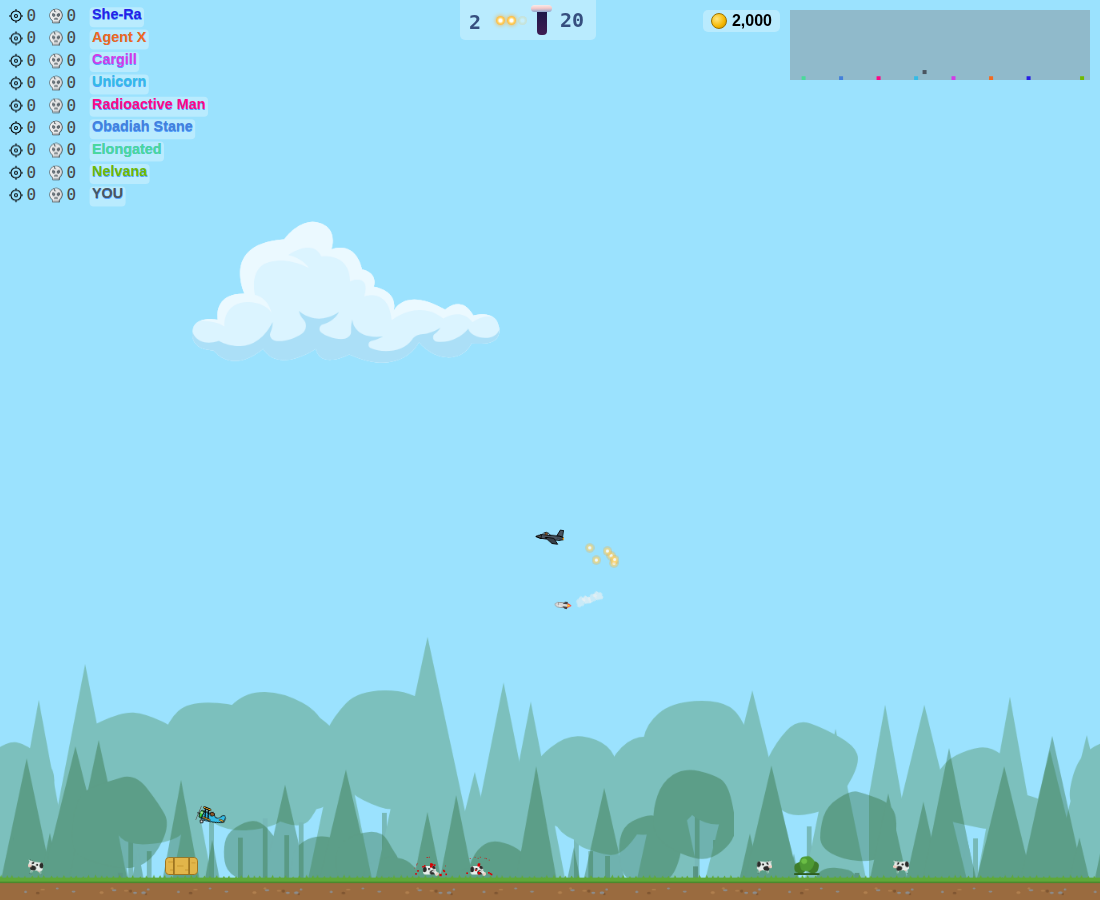
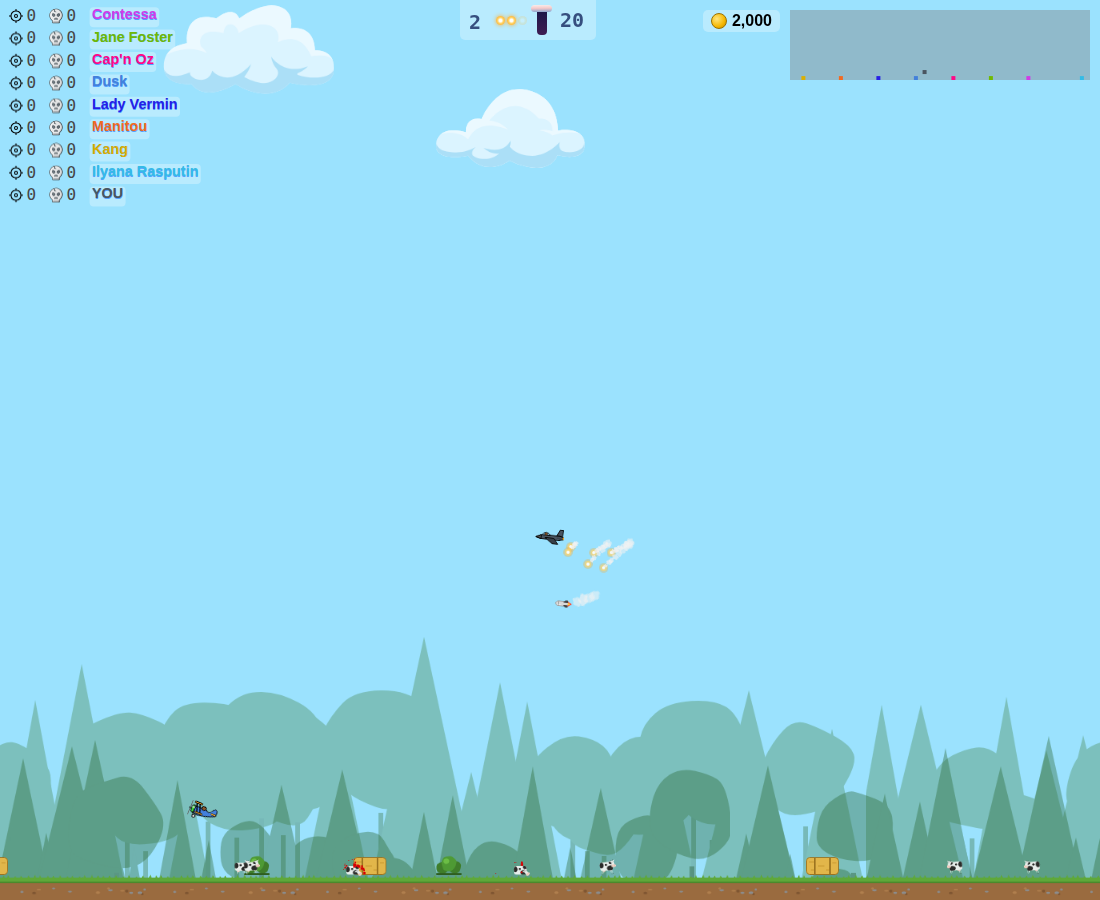
Keep the online host running when its window is covered; jet-style flares
- Online: browsers pause animation frames in covered or hidden windows,
  which froze the host's game and so every guest's screen. The engine's
  simulation step can now run without drawing, and while a room is open a
  Web Worker timer (not slowed down by the browser) keeps it ticking and
  keeps snapshots going.
- Flares: 8 flares released in quick pairs, fanning out below and behind
  the jet, arcing down with white smoke trails.
- Refresh the README game screenshot.

Claude-Session: https://claude.ai/code/session_01WwZ3htW9xsicAhMVb1Wtdf

diff --git a/js/engine/14-controls.js b/js/engine/14-controls.js
@@ -250,6 +250,22 @@ BitModules[14] = function (M, j, t) {
         }
     }
 
+    // White smoke trail behind a burning flare.
+    function X(M, t) {
+        const k = setInterval(() => {
+            if (!M.particles.has(t)) return clearInterval(k);
+            const s = new P.f(Q.b.puff);
+            (s.position = Object(N.c)(t.position)),
+                (s.velocity = Object(N.s)(0.1 * t.velocity.x, -1)),
+                (s.angle = 2 * Math.PI * Math.random()),
+                (s.scale = 0.45 + 0.25 * Math.random()),
+                (s.scaleRate = 0.7),
+                (s.opacity = 0.75),
+                (s.opacityRate = 0.3),
+                M.particles.add(s);
+        }, 30);
+    }
+
     // Flares: drop decoys that break the lock of missiles chasing this plane.
     function F(M, j) {
         if (!M.has(j) || !(j.maxFlares > 0) || !(j.flares > 0)) return;
@@ -260,17 +276,27 @@ BitModules[14] = function (M, j, t) {
                 t.source !== j &&
                 (t.target === j || (void 0 === t.target && Object(N.q)(t.position, j.position) < 700)) &&
                 ((t.target = void 0), (t.flared = !0), (t.elevator = 0));
-        for (let k = 0; k < 6; k++) {
-            const t = new P.c(Q.b.flare);
-            (t.duration = 1200 + 500 * Math.random()),
-                (t.position = Object(N.c)(j.position)),
-                (t.velocity = Object(N.s)(
-                    0.4 * j.velocity.x + 40 * (Math.random() - 0.5),
-                    0.4 * j.velocity.y + 10 + 20 * Math.random(),
-                )),
-                (t.size = 3),
-                M.particles.add(t);
-        }
+        // Release 8 flares in quick pairs. Like a real jet they are shot out
+        // below and behind the plane in a fan, then arc down trailing smoke.
+        for (let k = 0; k < 8; k++)
+            setTimeout(
+                () => {
+                    if (!M.has(j)) return;
+                    const t = new P.c(Q.b.flare),
+                        fan = (k % 2 ? 0.55 : 0) + (0.45 * Math.floor(k / 2)) / 3 + 0.1 * Math.random();
+                    (t.duration = 1800 + 700 * Math.random()),
+                        (t.position = Object(N.a)(j.position, Object(N.e)(j.forward, -10), Object(N.e)(j.normal, -4))),
+                        (t.velocity = Object(N.a)(
+                            Object(N.e)(j.velocity, 0.55),
+                            Object(N.e)(j.forward, -28 + 14 * fan),
+                            Object(N.e)(j.normal, -8 - 36 * fan),
+                        )),
+                        (t.size = 4),
+                        M.particles.add(t),
+                        X(M, t);
+                },
+                90 * Math.floor(k / 2),
+            );
         0 !== j.flares ||
             j.flareReloading ||
             ((j.flareReloading = !0),

diff --git a/js/engine/22-render.js b/js/engine/22-render.js
@@ -462,20 +462,29 @@ BitModules[22] = function (M, j, t) {
             I = 0,
             g = Object(D.g)(),
             y = 1 / 60;
+        // One simulation step (fixed 60 Hz physics, catching up on elapsed time).
+        function step() {
+            const A = Object(D.g)();
+            let n = (A - g) / 1e3;
+            for (n > 0.1 && (n = 0.1), g = A, I += n, t.remote || Object(L.c)(t, n); I >= y;)
+                (t.remote || O(t, y), (I -= y));
+            return (Object(N.g)(t, y), n);
+        }
+        // Lets the game keep running while the window is covered or hidden and
+        // animation frames stop (used by online hosts).
+        t.tick = function () {
+            Object(D.g)() - g > 50 && step();
+        };
         return (
             (function T() {
                 e = requestAnimationFrame(T);
-                const A = Object(D.g)();
-                let n = (A - g) / 1e3;
+                const n = step();
                 window.bitAdaptQuality && window.bitAdaptQuality(n);
-                for (n > 0.1 && (n = 0.1), g = A, I += n, t.remote || Object(L.c)(t, n); I >= y;)
-                    (t.remote || O(t, y), (I -= y));
-                Object(N.g)(t, y);
                 const c = t.remote ? t.remote.alpha() : I / y;
                 (i(M, c), a(j, M, t, c, u));
             })(),
             function () {
-                cancelAnimationFrame(e);
+                (cancelAnimationFrame(e), (t.tick = null));
             }
         );
     }

diff --git a/js/online/host.js b/js/online/host.js
@@ -68,7 +68,7 @@
         window.bitOnLog = html => broadcast({t: "log", h: html});
 
         updateHostBanner();
-        setInterval(sendSnapshots, SNAPSHOT_MS);
+        keepRunning(world);
         // Drop guests that went silent (closed tab, lost connection).
         setInterval(() => {
             const now = performance.now();
@@ -81,6 +81,28 @@
         }, 1000);
         window.addEventListener("beforeunload", () => host.peer && host.peer.destroy());
         host.pending.splice(0).forEach(spawnGuest);
+    }
+
+    // Browsers pause animation frames in covered or hidden windows, and slow
+    // down their timers. A Web Worker timer is not slowed down, so it keeps the
+    // host's game simulating and sending snapshots while the host looks away.
+    function keepRunning(world) {
+        let last = 0;
+        const beat = () => {
+            world.tick && world.tick();
+            const now = performance.now();
+            if (now - last >= SNAPSHOT_MS) {
+                last = now;
+                sendSnapshots();
+            }
+        };
+        try {
+            const src = "setInterval(function () { postMessage(0); }, 16);";
+            const worker = new Worker(URL.createObjectURL(new Blob([src], {type: "text/javascript"})));
+            worker.onmessage = beat;
+        } catch (e) {
+            setInterval(beat, 16);
+        }
     }
 
     function updateHostBanner() {
